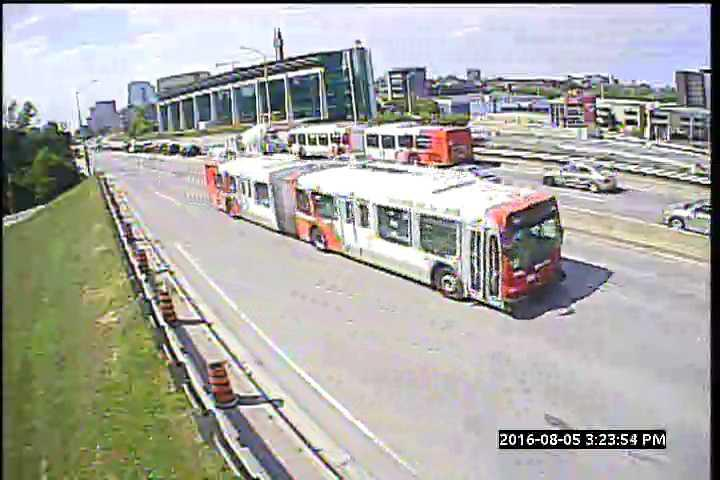
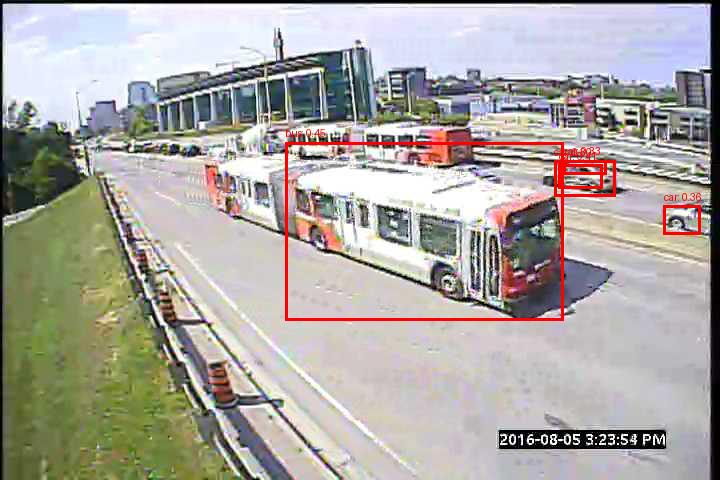
infernce

Changed region(s): [[0.3667, 0.25, 0.8556, 0.6875], [0.9167, 0.375, 0.9778, 0.5]]

diff --git a/src/part1DeepLearning/inference.py b/src/part1DeepLearning/inference.py
@@ -79,6 +79,14 @@ def run_inference(image_path, model_path, csv_path, score_threshold=0.5):
     labels = outputs[0]["labels"].cpu()
     scores = outputs[0]["scores"].cpu()
 
+    top_k = 5
+    scores, indices = scores.sort(descending=True)
+    indices = indices[:top_k]
+
+    boxes = boxes[indices]
+    labels = labels[indices]
+    scores = scores[:top_k]
+
     draw = ImageDraw.Draw(image)
 
     for box, label, score in zip(boxes, labels, scores):
@@ -109,5 +117,7 @@ if __name__ == "__main__":
         image_path=r"Datasets & Problem Statement\Part 1\Images\00000001.jpg",  # use zero-padded name
         model_path="models/vehicle_detector.pth",
         csv_path=r"Datasets & Problem Statement\Part 1\labels.csv",  # use original CSV
-        score_threshold=0.5
+        score_threshold=0.1
     )
+
+
